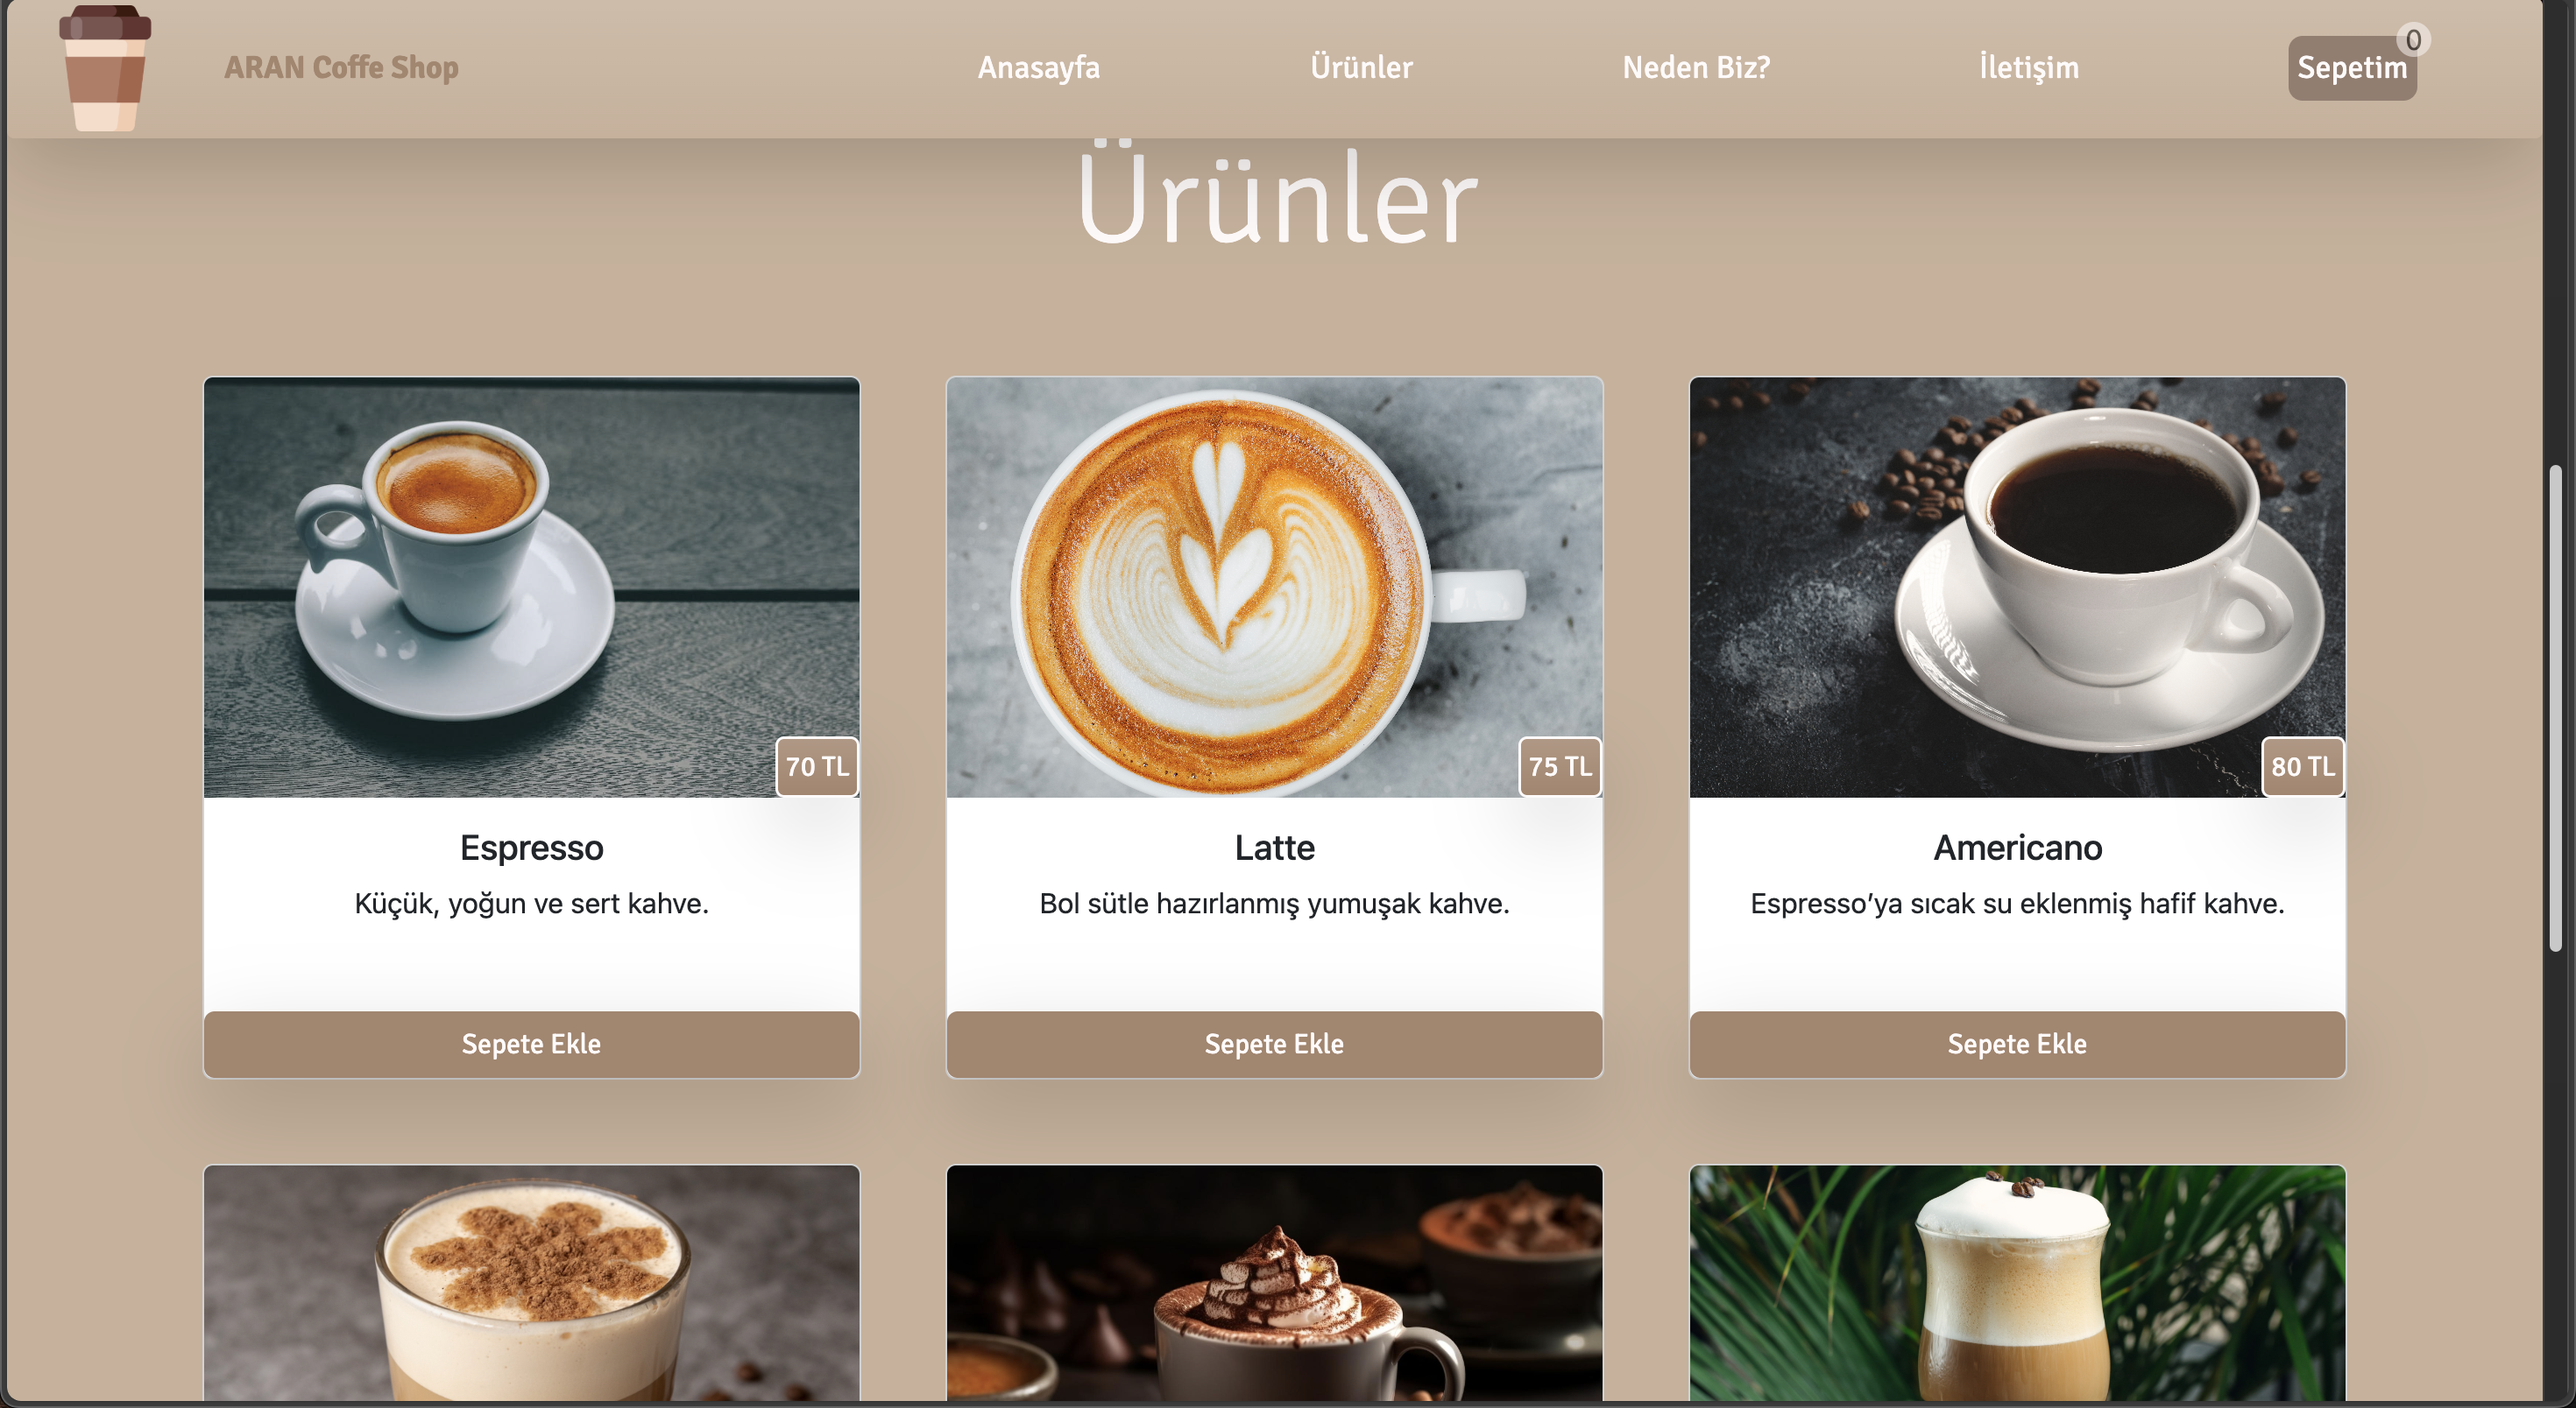
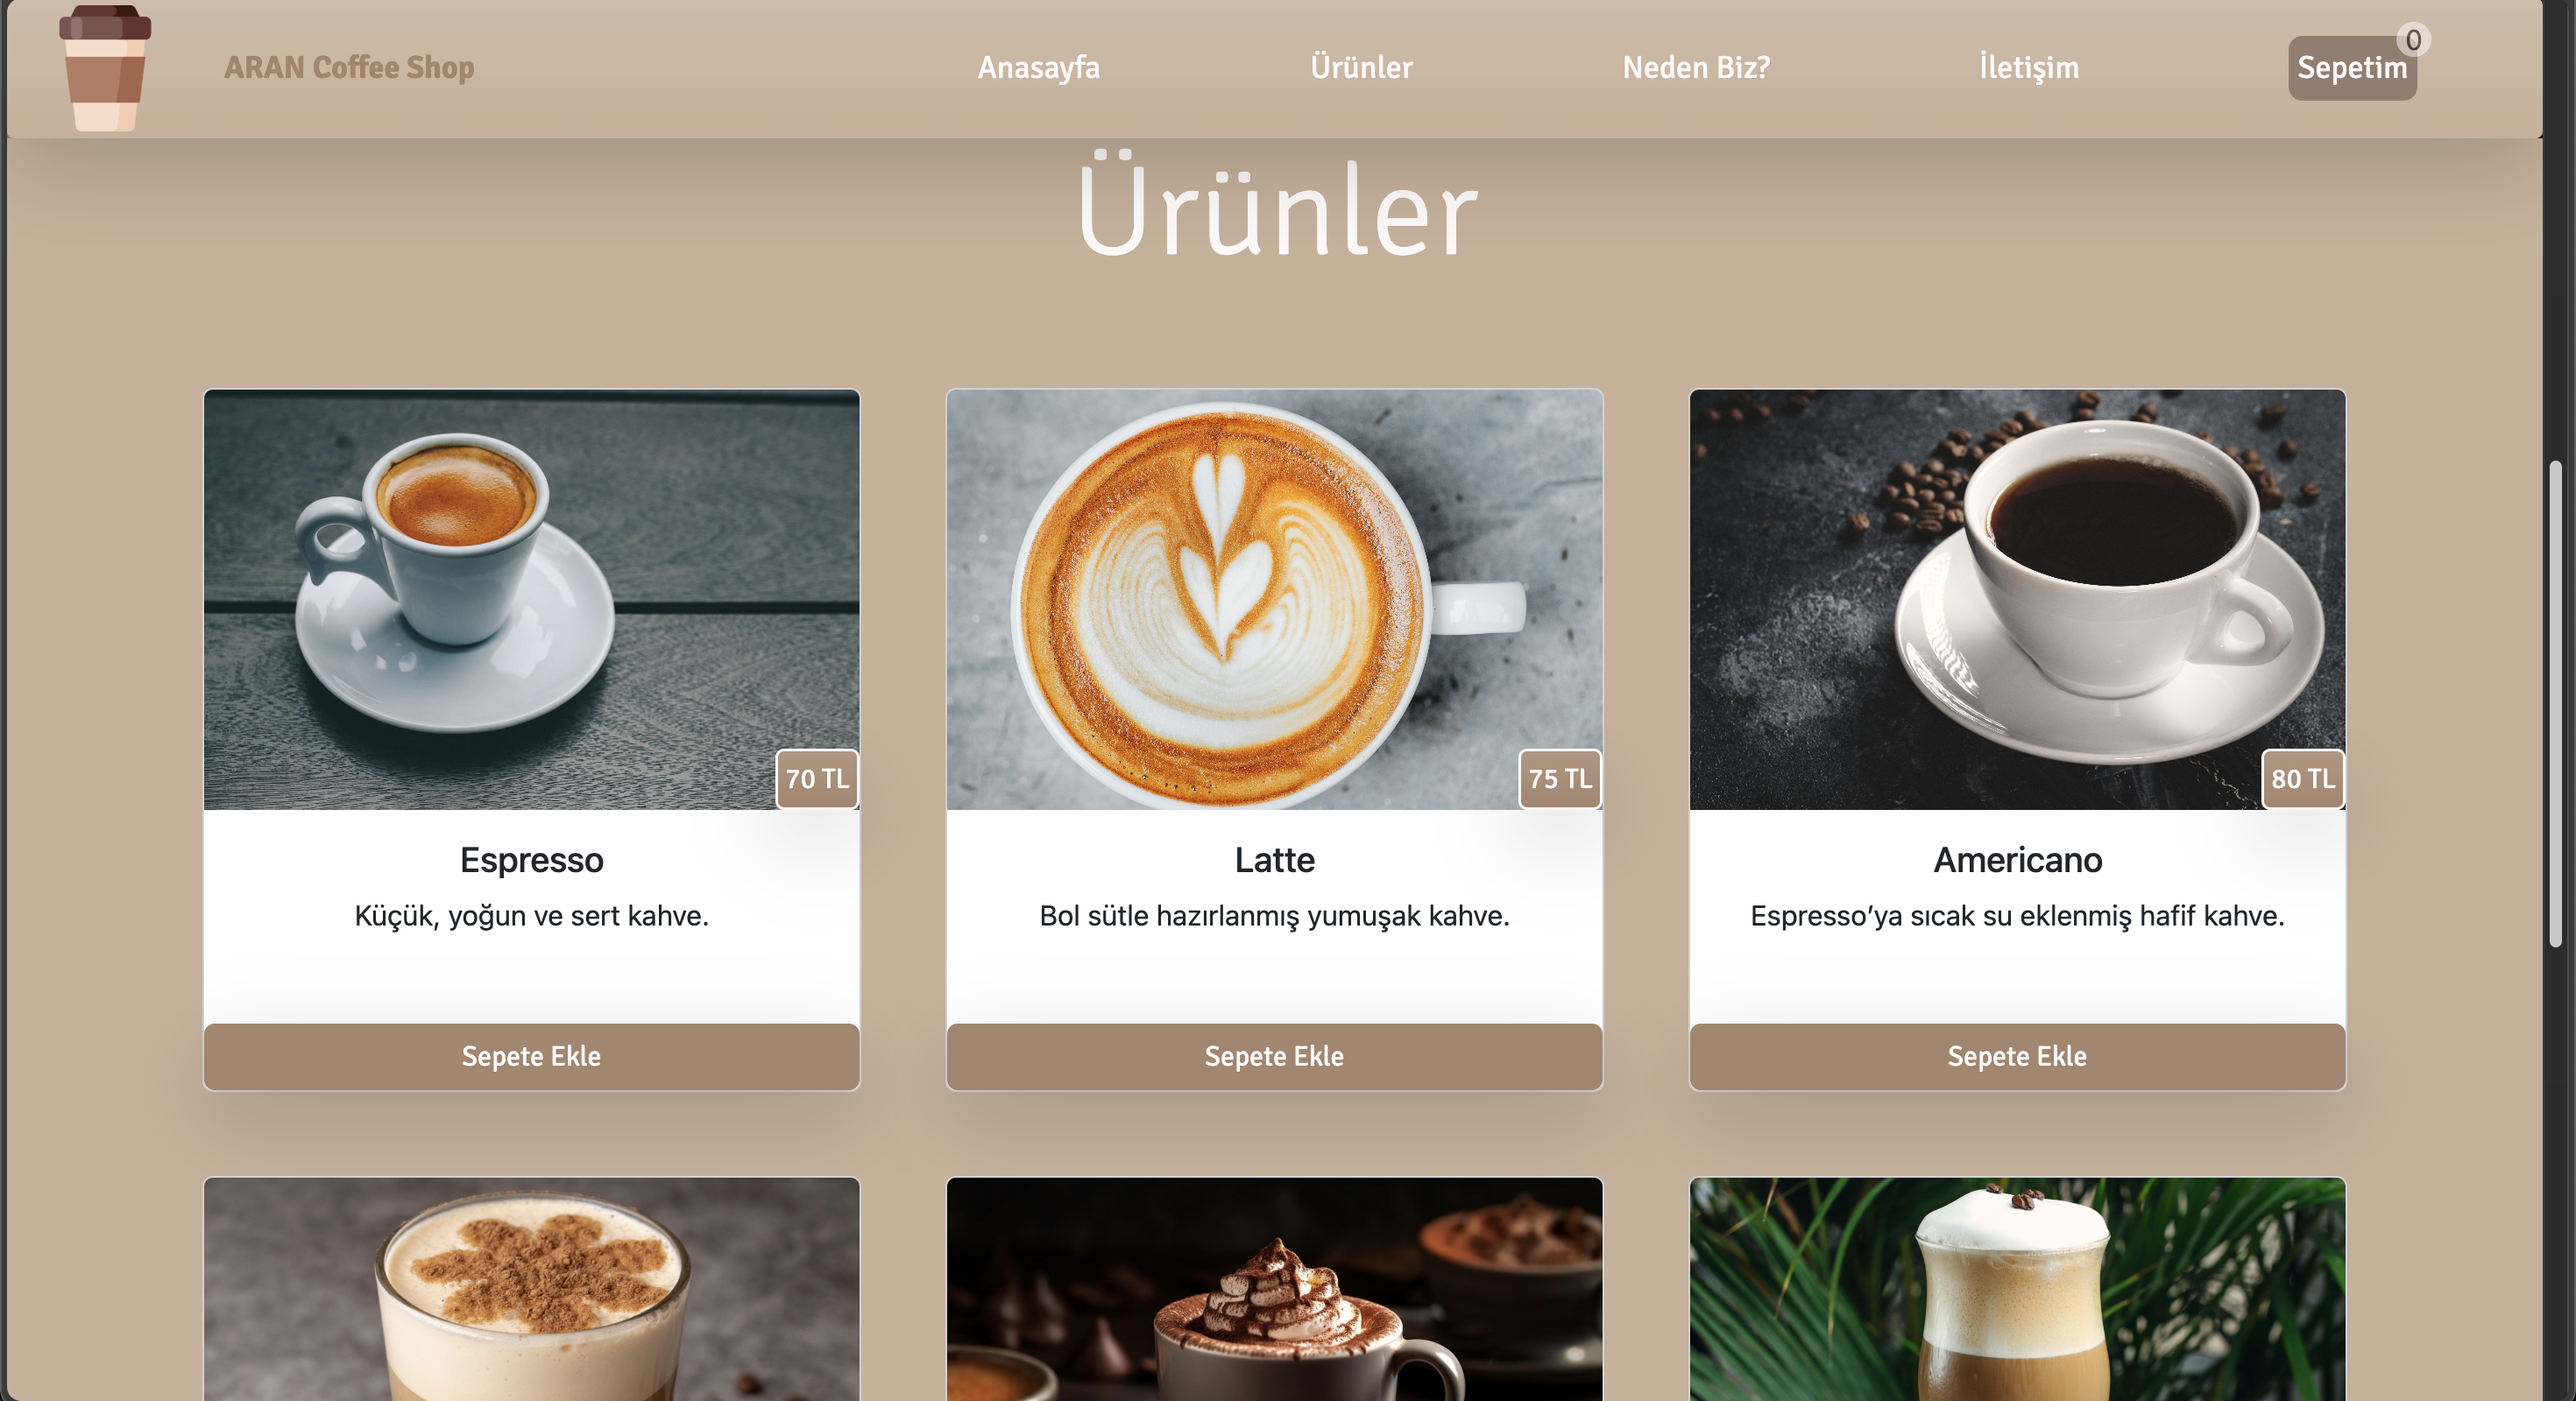
Update Images And Navbar

diff --git a/index.html b/index.html
@@ -4,7 +4,7 @@
 <head>
     <meta charset="UTF-8">
     <meta name="viewport" content="width=device-width, initial-scale=1.0">
-    <title>Coffe Shop</title>
+    <title>Coffee Shop</title>
     <link rel="stylesheet" href="style.css">
     <link rel="stylesheet" href="Bootstrap/bootstrap-5.3.7-dist/css/bootstrap.min.css">
     <link rel="preconnect" href="https://fonts.googleapis.com">
@@ -20,7 +20,7 @@
         <div class="row h-100 m-0 ">
             <div class="d-flex col-4 justify-content-start align-items-center h-100">
                 <img src="Image/coffee-cup.png" class="mx-2 h-100 py-1">
-                <p class="mx-4 nav-link-texts my-0 nav-header fw-bolder">ARAN Coffe Shop</p>
+                <p class="mx-4 nav-link-texts my-0 nav-header fw-bolder">ARAN Coffee Shop</p>
             </div>
             <ul
                 class="d-flex justify-content-around list-unstyled text-decoration-none col-8 align-items-center m-0 h-100">
@@ -35,7 +35,7 @@
     </nav>
     <section id="anasayfa" class="d-flex justify-content-center align-items-center">
         <div class="overlay d-flex justify-content-center align-items-center flex-column">
-            <h1 class="color-snow display-1 font-google">ARAN Coffe Shop</h1>
+            <h1 class="color-snow display-1 font-google">ARAN Coffee Shop</h1>
             <p class="color-snow display-5 font-google">Kahve Keyfinizi Sonuna Kadar Yaşayın!</p>
         </div>
 
